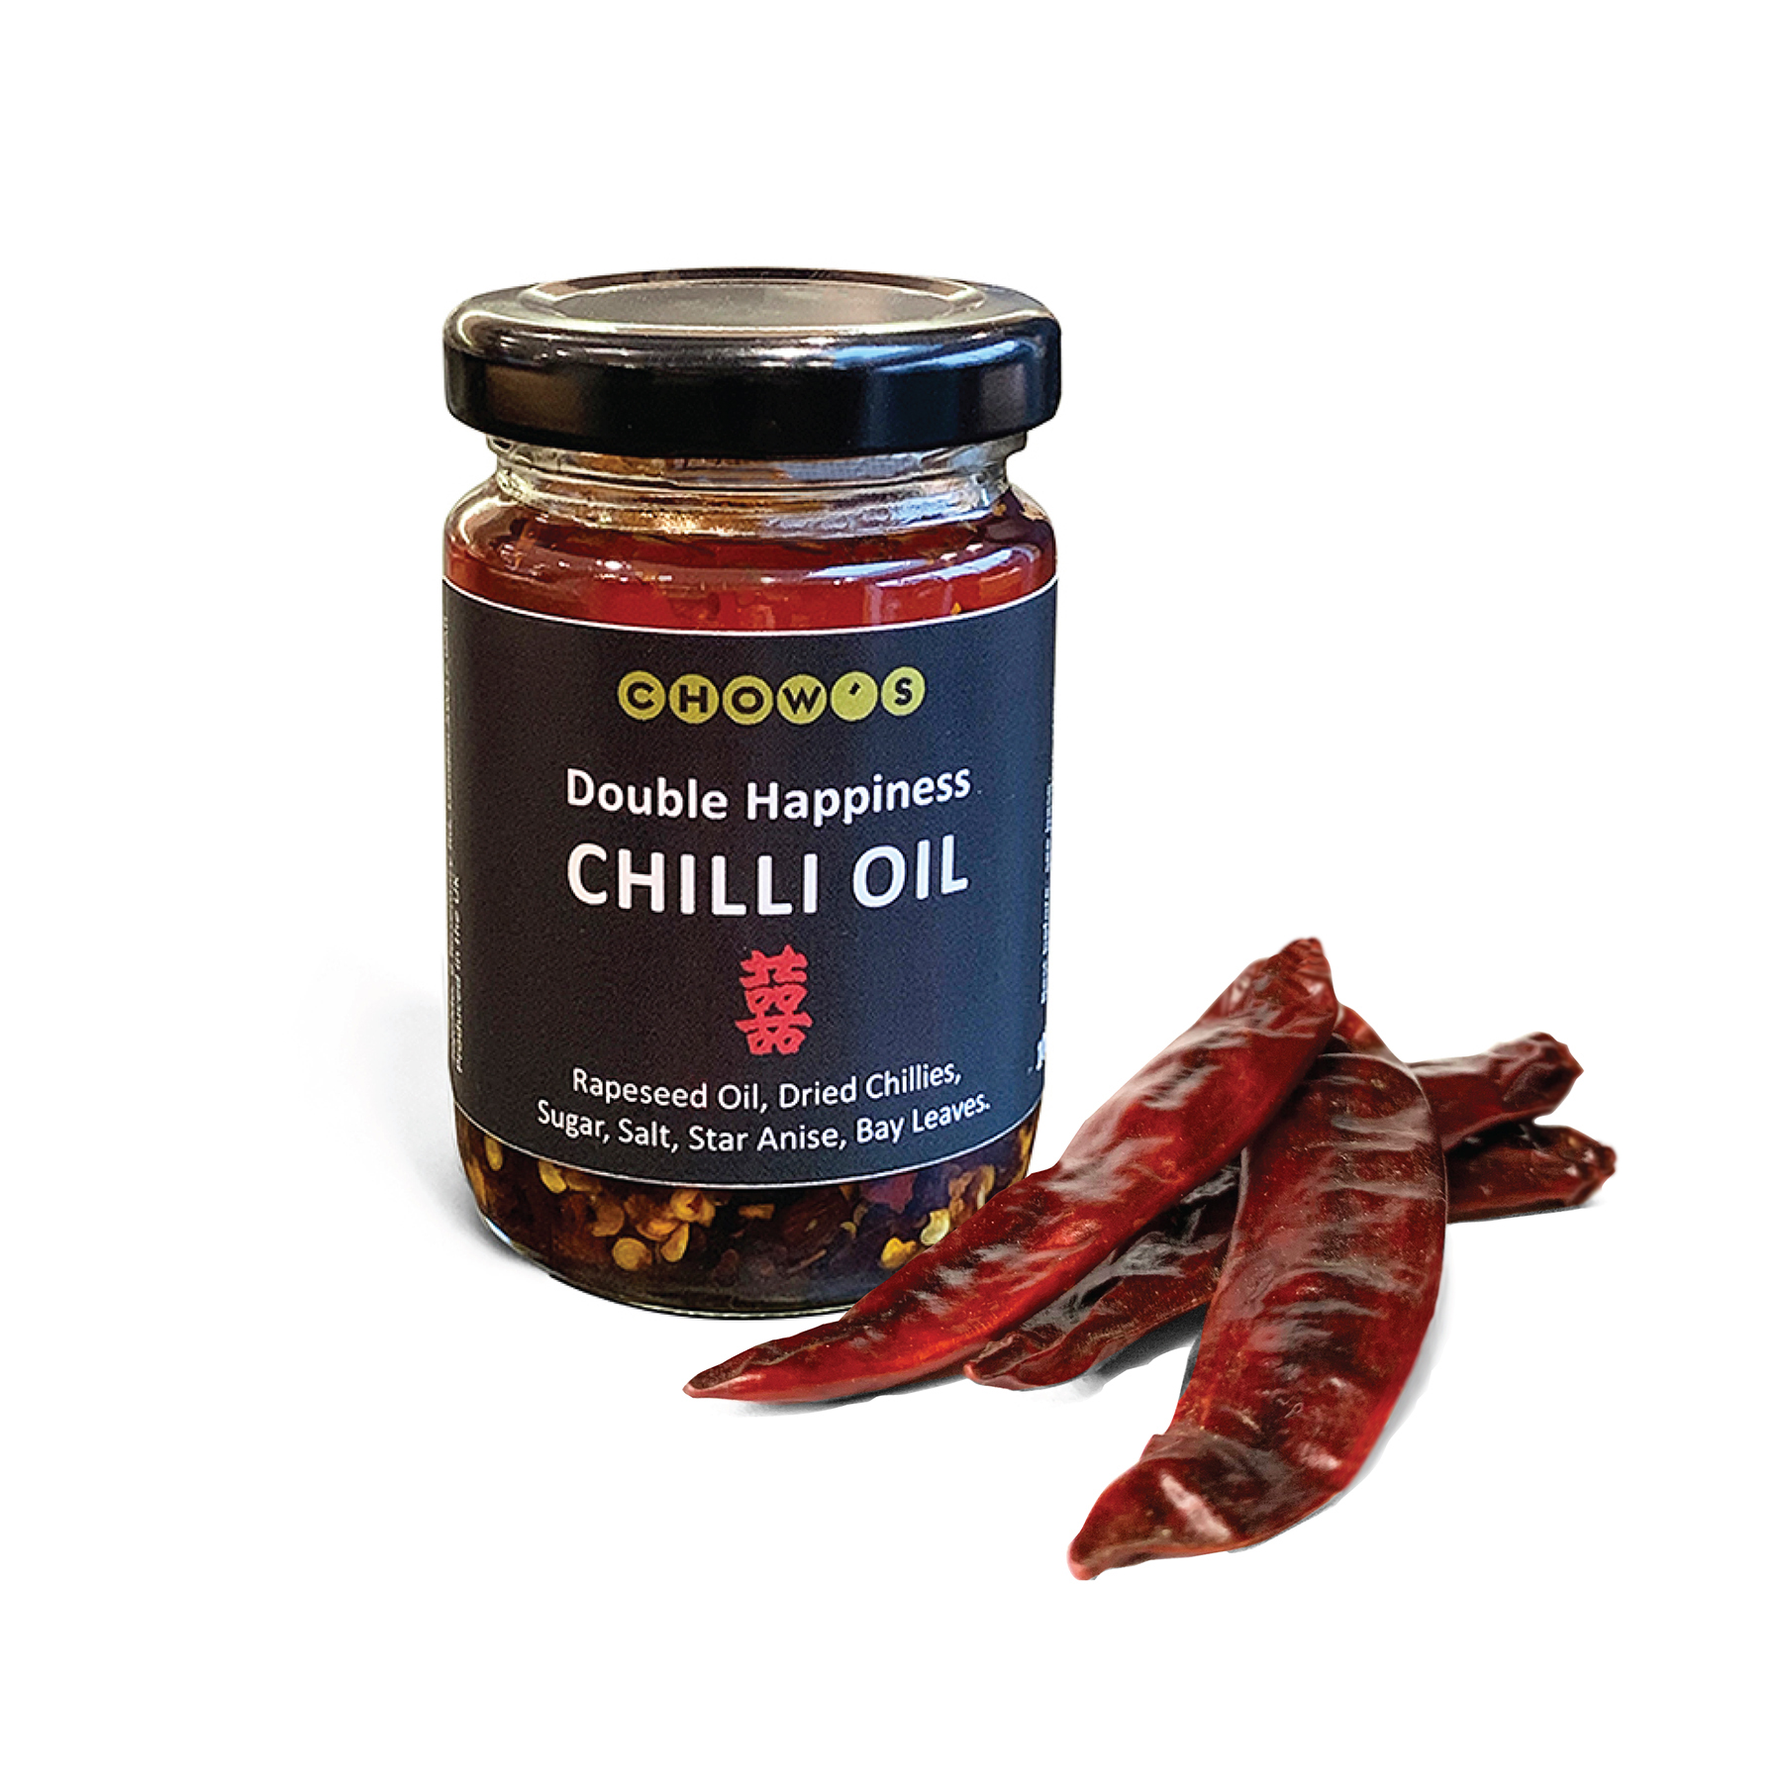
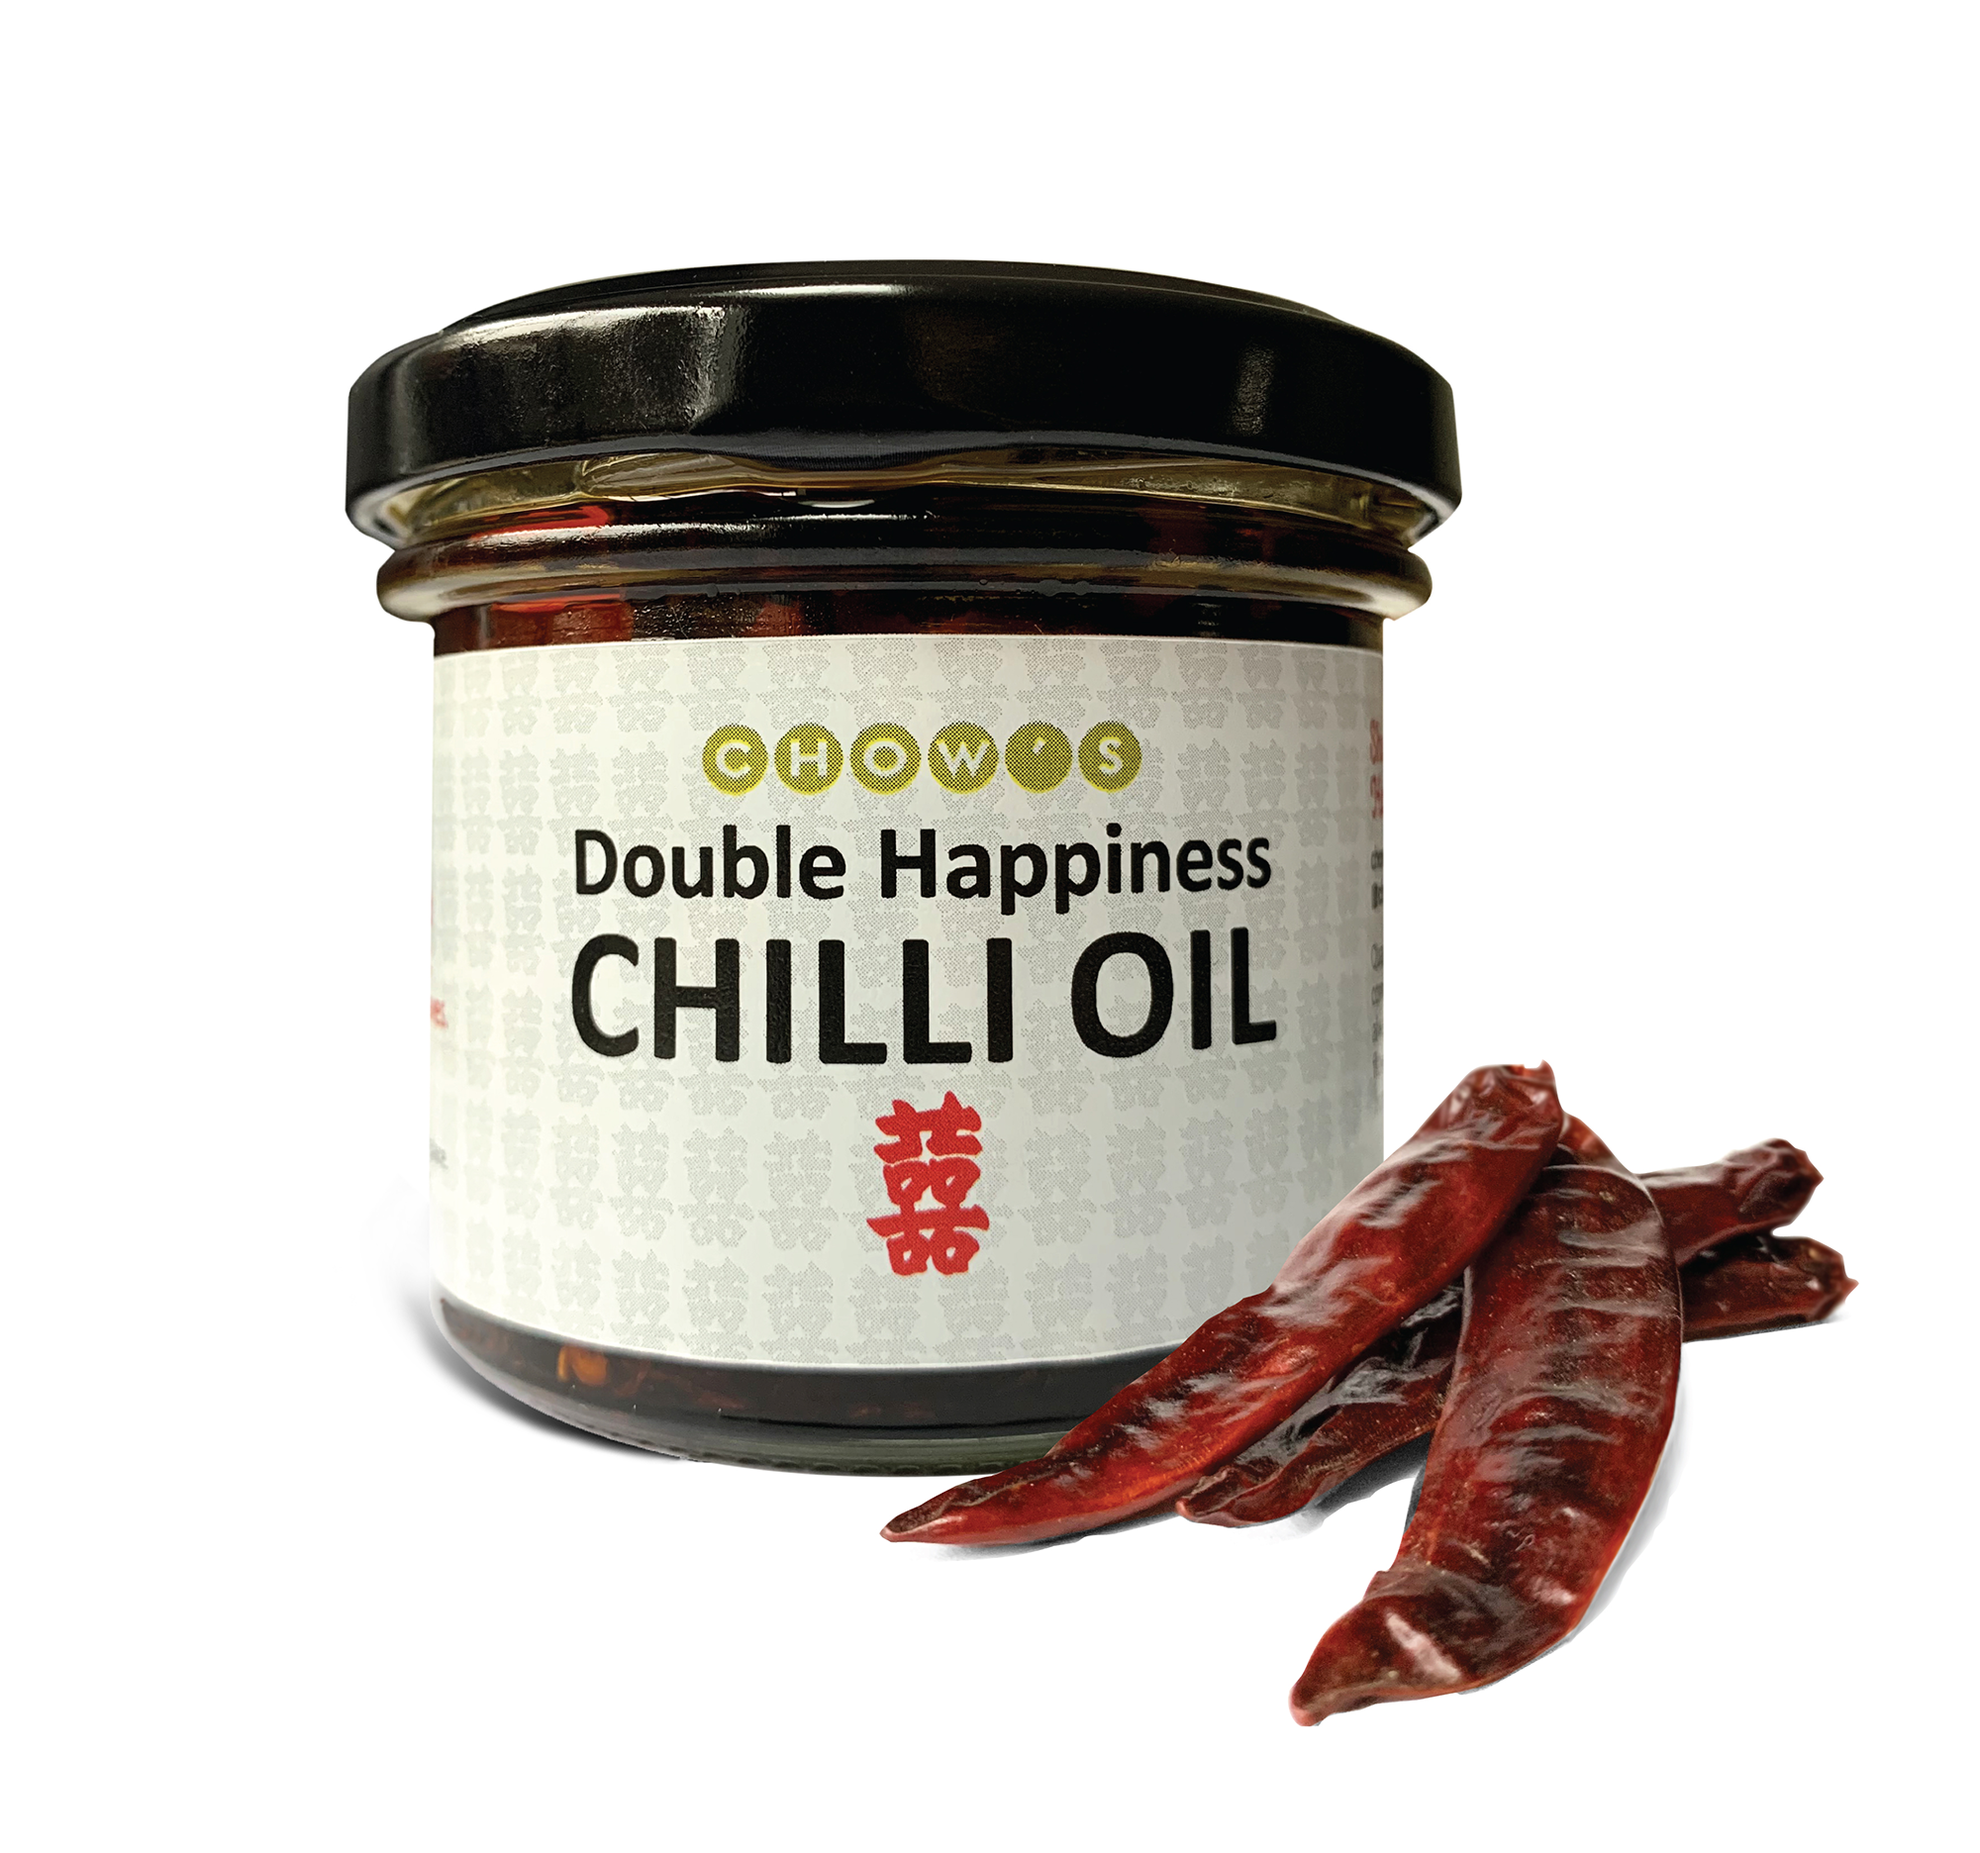
add new stockist and change jar

diff --git a/index.html b/index.html
@@ -52,7 +52,8 @@
             </li>
             <li class="mobile-li">
                 <a href="https://www.instagram.com/chowsdoublehappiness/" target="_blank"
-                    class="hvr-icon-rotate hvr-icon-fade" rel="noopener"><i class="fab fa-instagram hvr-icon"></i> Follow us on
+                    class="hvr-icon-rotate hvr-icon-fade" rel="noopener"><i class="fab fa-instagram hvr-icon"></i>
+                    Follow us on
                     Instagram!</a>
             </li>
         </ul>
@@ -129,8 +130,8 @@
     </section>
     <!-- Find Us -->
     <section id="find-us">
-        <iframe id="google-map"
-            src="https://www.google.com/maps/d/u/0/embed?mid=1I6kh_XR0NoTWiOwpnldD0gSfq5yujTK5"></iframe>
+        <iframe id='google-map'
+            src="https://www.google.com/maps/d/u/0/embed?mid=1I6kh_XR0NoTWiOwpnldD0gSfq5yujTK5&ehbc=2E312F"></iframe>
         <div id="locations">
             <h1>Stockists</h1>
             <div class="location">
@@ -168,6 +169,11 @@
                 <a href="https://www.google.com/maps/place/M.Moen+%26+Sons/@51.4623443,-0.1423227,17z/data=!3m2!4b1!5s0x4876044d57cdeb67:0x70126978b28ad514!4m5!3m4!1s0x4876044d563cf5f9:0x42574754899cfb8a!8m2!3d51.462341!4d-0.140134"
                     target="_blank" class="hvr-icon-fade">M.Moen & Sons</a>
                 <p>24 The Pavement, London, SW4 0JA</p>
+            </div>
+            <div class="location">
+                <a href="https://www.google.com/maps/place/The+Lone+Fisherman/@51.4288704,-0.1682913,17z/data=!3m1!4b1!4m5!3m4!1s0x487607e09b198771:0xc77fc0f3cbfd3599!8m2!3d51.4288671!4d-0.1661026"
+                    target="_blank" class="hvr-icon-fade">The Lone Fisherman</a>
+                <p>Tooting Market, 21-23 Tooting High St, London SW17 0SN</p>
             </div>
             <div class="location">
                 <a href="https://www.google.com/maps/place/Moxon%E2%80%99s/@51.4528716,-0.1500076,17z/data=!3m1!4b1!4m5!3m4!1s0x487605b615da2e0d:0x3373a02bf1069e95!8m2!3d51.452872!4d-0.1478192"
@@ -299,7 +305,7 @@
     <!-- Footer -->
     <footer>
         <div class="instagram-msg">
-            <p>Share The Happiness</p>
+            <p>Share the Happiness</p>
         </div>
         <div class="instagram-icon">
             <a href="https://www.instagram.com/chowsdoublehappiness/" target="_blank"

diff --git a/assets/css/media-queries.css b/assets/css/media-queries.css
@@ -134,6 +134,10 @@
         height: 750px;
     }
 
+    #find-us {
+        height: 1000px;
+    }
+
     .recipe,
     .thumbnail {
         transform: scale(0.7);
@@ -471,7 +475,7 @@
     }
 
     #find-us {
-        height: 1160px;
+        height: 1280px;
     }
 
     #locations {
@@ -634,10 +638,6 @@
 
     .story-img {
         top: 640px;
-    }
-
-    #find-us {
-        height: 1200px;
     }
 
     #google-map {
@@ -879,7 +879,7 @@
     }
 
     #find-us {
-        height: 1250px;
+        height: 1400px;
     }
 
     .thumbnail p {

diff --git a/assets/css/style.css b/assets/css/style.css
@@ -178,13 +178,6 @@ ul {
     width: auto;
 }
 
-/* ---------------------------------- Divider */
-.divider {
-    background-color: #c11734;
-    width: 100%;
-    height: 2px;
-}
-
 /* ----------------------------------  Hero Image */
 .hero-image {
     background: url('../images/stirfry-hero.jpg') no-repeat center center;
@@ -454,7 +447,7 @@ ul {
 
 /* ---------------------------------- Where To Find Us */
 #find-us {
-    height: 850px;
+    height: 900px;
     width: 100%;
     position: relative;
     background-color: #1d1d1b;

diff --git a/bolognese-recipe.html b/bolognese-recipe.html
@@ -184,7 +184,7 @@
     <!-- Footer -->
     <footer>
         <div class="instagram-msg">
-            <p>Share The Happiness</p>
+            <p>Share the Happiness</p>
         </div>
         <div class="instagram-icon">
             <a href="https://www.instagram.com/chowsdoublehappiness/" target="_blank"

diff --git a/mullet-recipe.html b/mullet-recipe.html
@@ -178,7 +178,7 @@
     <!-- Footer -->
     <footer>
         <div class="instagram-msg">
-            <p>Share The Happiness</p>
+            <p>Share the Happiness</p>
         </div>
         <div class="instagram-icon">
             <a href="https://www.instagram.com/chowsdoublehappiness/" target="_blank"

diff --git a/steak-recipe.html b/steak-recipe.html
@@ -182,7 +182,7 @@
     <!-- Footer -->
     <footer>
         <div class="instagram-msg">
-            <p>Share The Happiness</p>
+            <p>Share the Happiness</p>
         </div>
         <div class="instagram-icon">
             <a href="https://www.instagram.com/chowsdoublehappiness/" target="_blank"

diff --git a/stirfry-recipe.html b/stirfry-recipe.html
@@ -166,7 +166,7 @@
     <!-- Footer -->
     <footer>
         <div class="instagram-msg">
-            <p>Share The Happiness</p>
+            <p>Share the Happiness</p>
         </div>
         <div class="instagram-icon">
             <a href="https://www.instagram.com/chowsdoublehappiness/" target="_blank"
